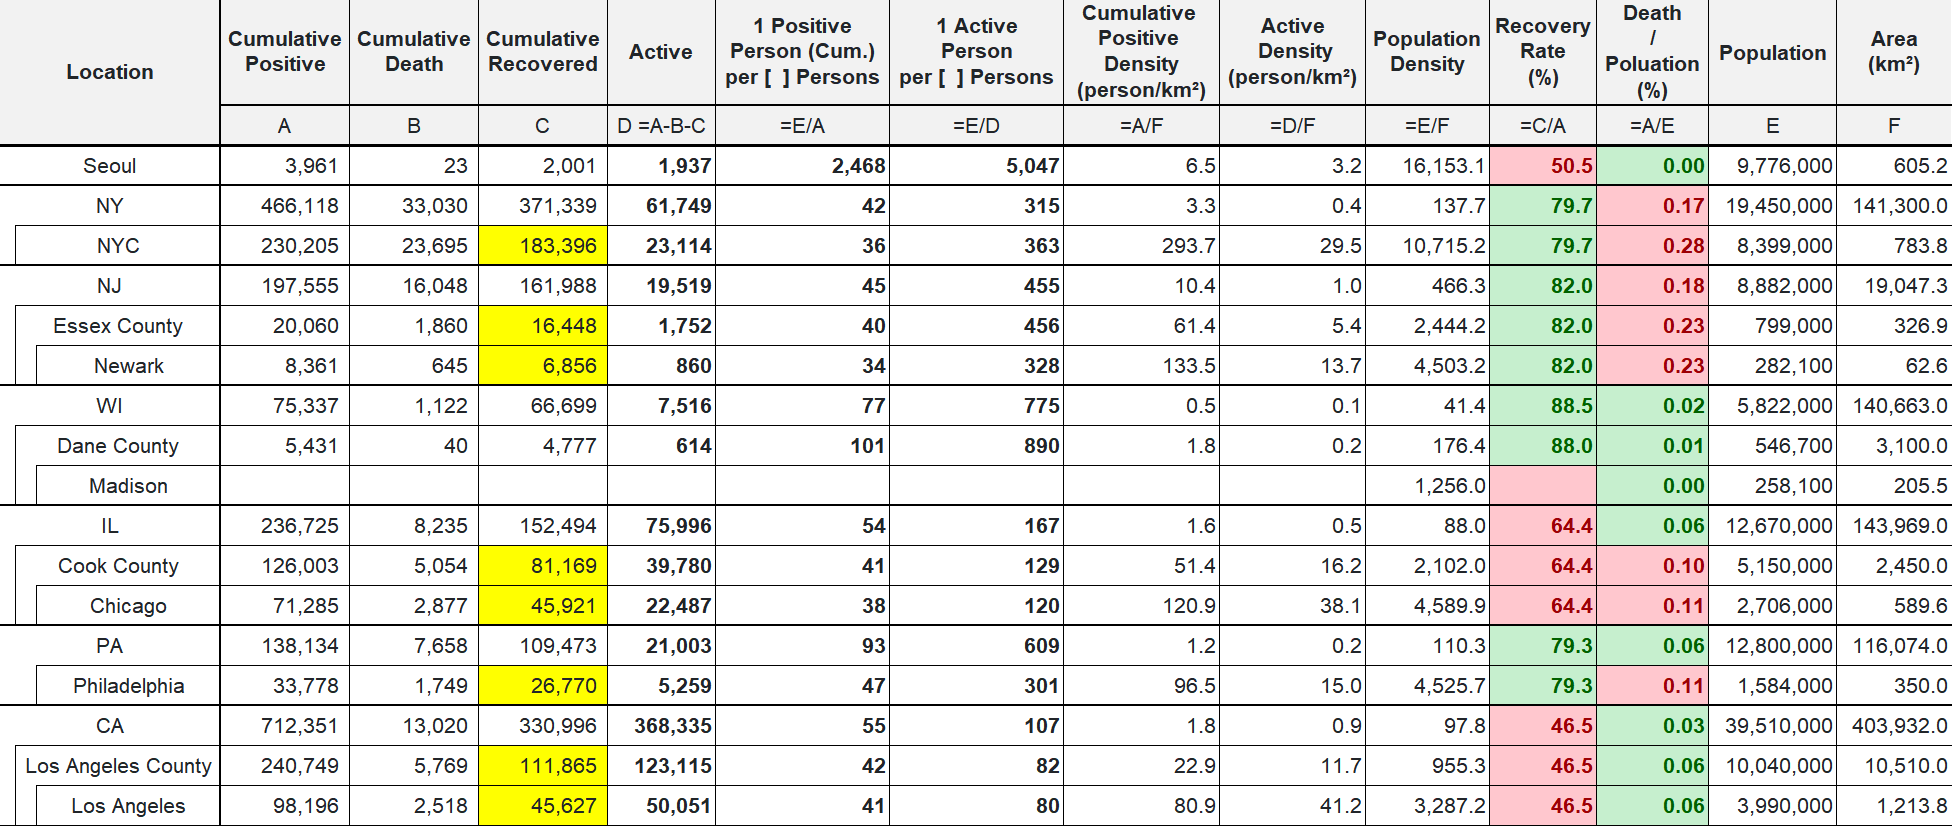
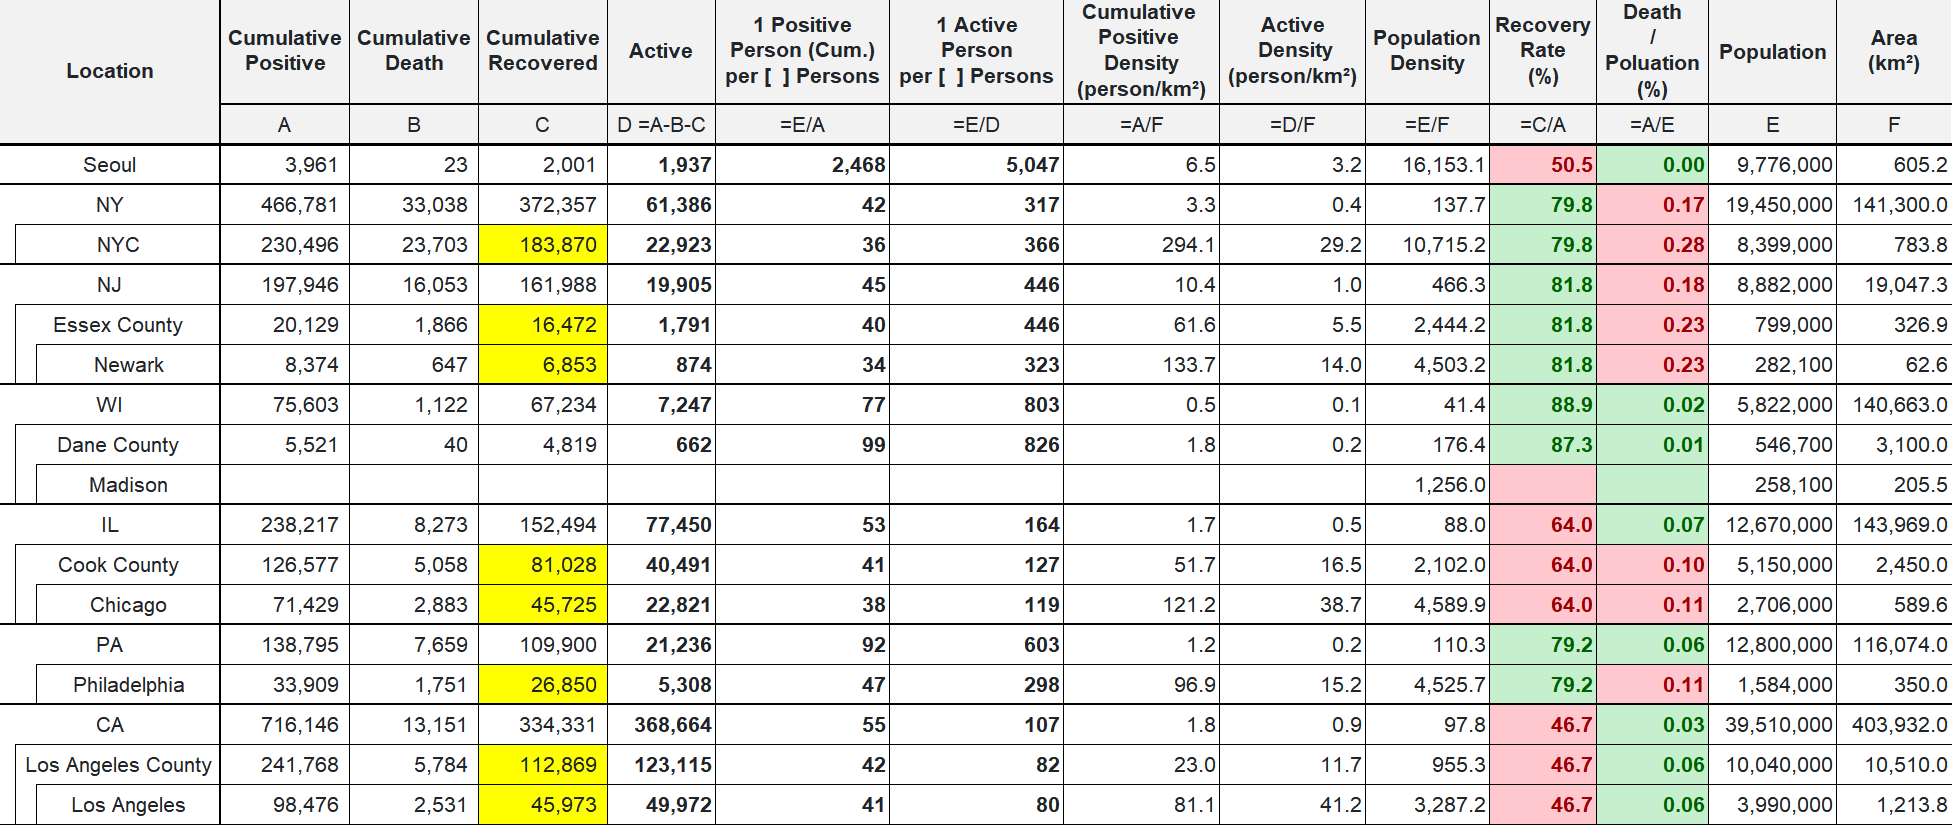
udpdate 9/1 status

diff --git a/index.html b/index.html
@@ -19,7 +19,7 @@
 
 <body class="container-fluid">
 	<h1> CoronaV for Friends</h1>
-	<h2> Data updated at Aug 31 2020 EST 23:55</h2>
+	<h2> Data updated at Sep 01 2020 EST 19:45</h2>
 	<hr>
 	<main>
 		<div class="row">
